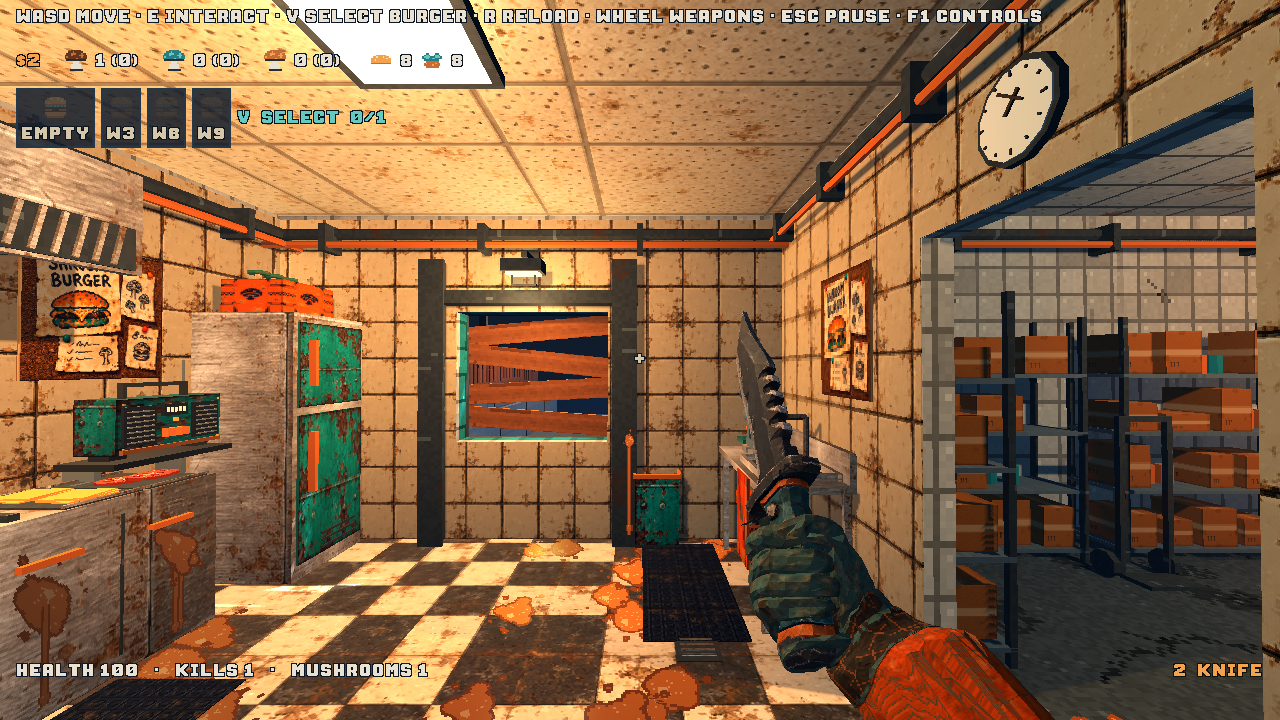
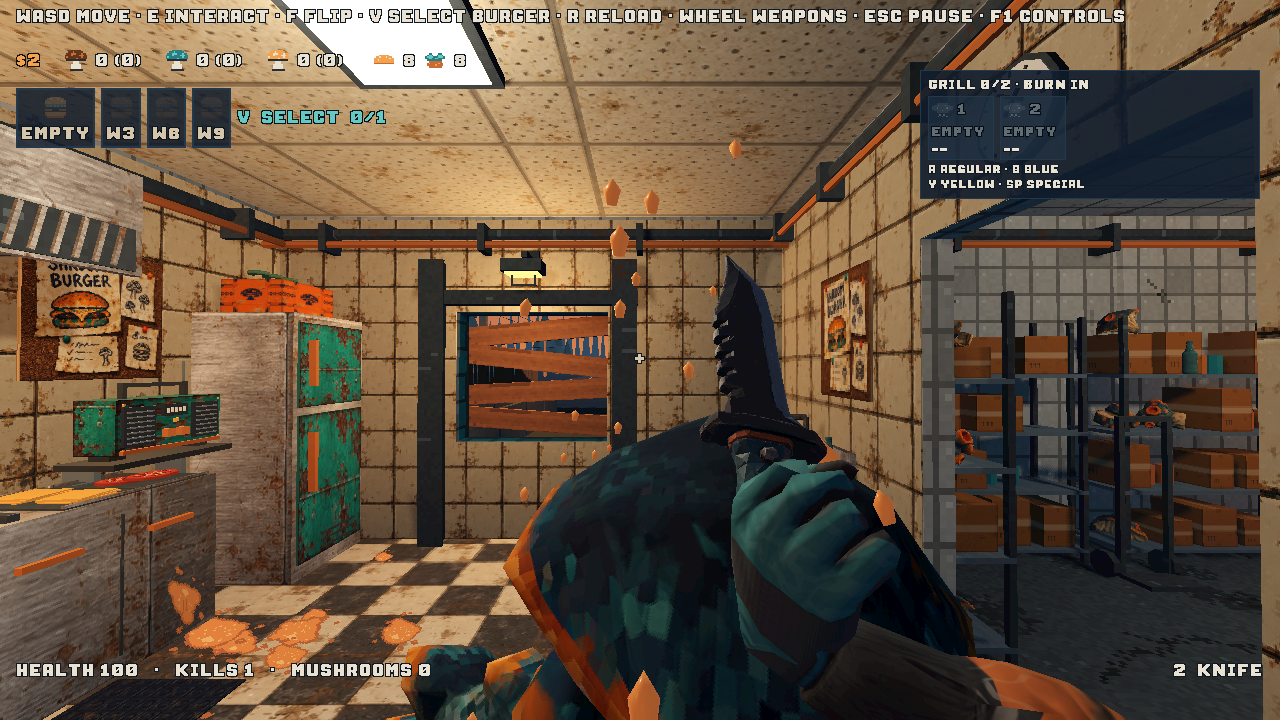
Roll only the survival knife grip 100 degrees towards the player
Keep the visible wrist and blade axis planted; verify knife-only scope, 43 suites, validator, and native idle/slash/stab views.

diff --git a/docs/handover/WEAPON_HAND_PLACEMENT.md b/docs/handover/WEAPON_HAND_PLACEMENT.md
@@ -6,6 +6,13 @@ damage and attack timings remain unchanged. The adjustment rotates the forearm's
 approach instead of moving the whole knife sideways or letting the wrist drift.
 Other weapon fits retain the default shoulder location.
 
+Owner follow-up: the survival knife grip rolls a further 100 degrees towards the
+camera/right about its own blade axis at the hand bone. A rigid presentation
+transform carries blade and fingers together, retaining the wrist location and
+blade direction without deforming the authored skin. The alternate dagger is
+explicitly excluded. `KNIFE_WRIST_ROLL` in knife_weapon.gd controls this turn;
+no generated mesh or fit needs rebuilding for this rigid roll.
+
 Both shotguns now use explicitly placed grip frames for both hands, solved at
 the runtime 1.25x rig size. The sawn-off rear hand sits higher and rolls slightly
 round its stock; the pump rear hand is fitted against the narrow grip rather than
